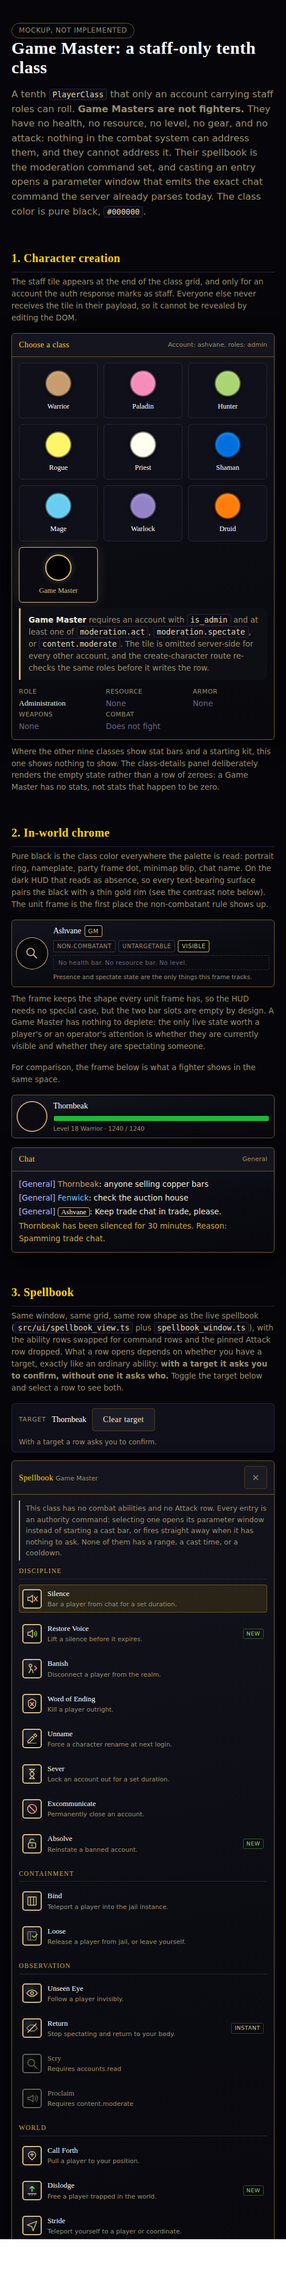
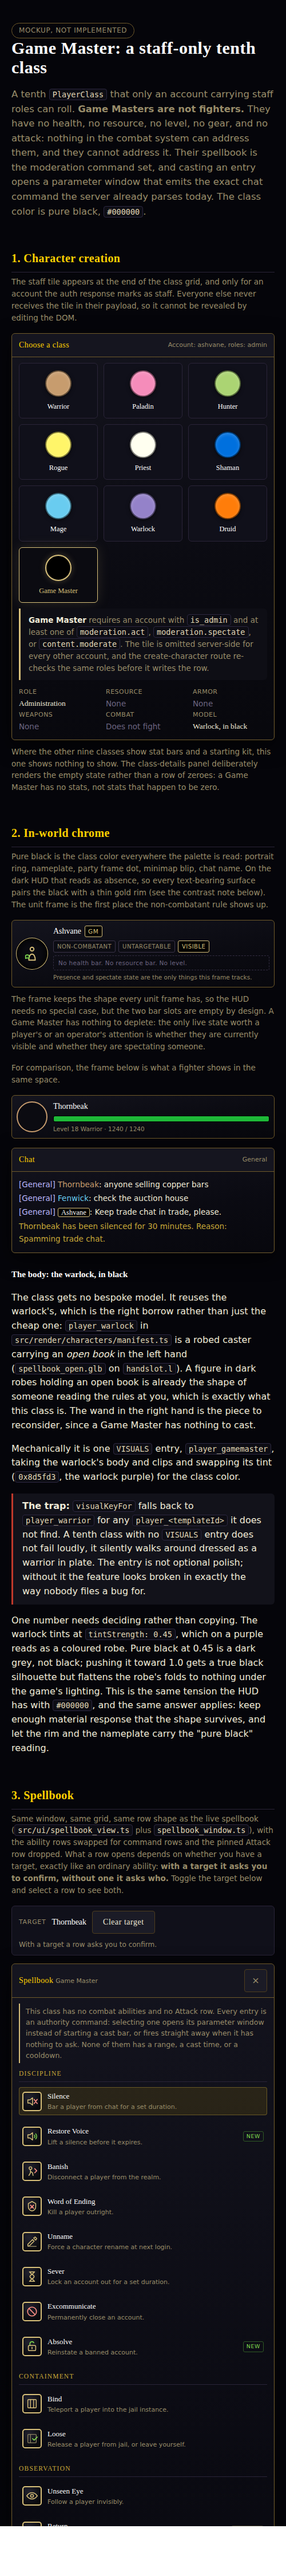
feat(docs): give the Game Master the warlock body, in black
The class gets no bespoke model and reuses the warlock's, which is the
right borrow rather than only the cheap one: player_warlock is a robed
caster carrying an open book in the left hand (spellbook_open.glb on
handslot.l), and a figure in dark robes holding an open book is already
the shape of someone reading the rules at you. Mechanically it is one
VISUALS entry cloning that body with the class color replacing the
warlock purple. Notes the wand in the right hand as the piece to
reconsider, since this class has nothing to cast.

Records the trap that makes the entry mandatory rather than polish:
visualKeyFor falls back to player_warrior for any player_<templateId> it
cannot find, so a tenth class without a VISUALS entry does not fail
loudly, it silently walks around dressed as a warrior in plate.

Also flags the one number that must be decided rather than copied. The
warlock tints at tintStrength 0.45, which reads as a coloured robe on
purple; pure black at 0.45 is dark grey, while pushing toward 1.0 gets a
true black silhouette but flattens the robe under the game's lighting.
Same tension the HUD has with #000000, and the same resolution: keep
enough material response for the shape to survive and let the rim and
nameplate carry the pure-black reading.

Claude-Session: https://claude.ai/code/session_012bGQz4hsnH1YFBGZWnVcjq

Changed region(s): [[0.03, 0.0, 0.96, 1.0]]

diff --git a/docs/design/game-master-class.html b/docs/design/game-master-class.html
@@ -314,6 +314,7 @@
     <g id="gl-revive"><path d="M12 4v16M4 12h16" stroke="#7fdc4f" stroke-width="2" stroke-linecap="round"/><circle cx="12" cy="12" r="8.5" fill="none" stroke="#8a7f5e" stroke-width="1.4"/></g>
     <g id="gl-freeze"><path d="M12 2v20M3.5 7l17 10M20.5 7l-17 10" stroke="#69ccf0" stroke-width="1.6" stroke-linecap="round"/></g>
     <g id="gl-whois"><circle cx="10.5" cy="10.5" r="6.5" fill="none" stroke="#d8c07a" stroke-width="1.7"/><path d="M15.5 15.5L21 21" stroke="#d8c07a" stroke-width="1.8" stroke-linecap="round"/></g>
+    <g id="gl-gm-body"><path d="M12 3a2.6 2.6 0 110 5.2A2.6 2.6 0 0112 3z" fill="none" stroke="#d8c07a" stroke-width="1.5"/><path d="M7.5 21c0-5.2 2-8.4 4.5-8.4s4.5 3.2 4.5 8.4z" fill="none" stroke="#d8c07a" stroke-width="1.5" stroke-linejoin="round"/><path d="M3 14.5c1.6-1 3.2-1 4.8 0v4.2c-1.6-1-3.2-1-4.8 0z" fill="none" stroke="#7fdc4f" stroke-width="1.3" stroke-linejoin="round"/></g>
     <g id="gl-unmute"><path d="M4 9h4l5-4v14l-5-4H4z" fill="none" stroke="#d8c07a" stroke-width="1.6" stroke-linejoin="round"/><path d="M16.5 9.5a4 4 0 010 5M19 7a7.5 7.5 0 010 10" fill="none" stroke="#7fdc4f" stroke-width="1.6" stroke-linecap="round"/></g>
     <g id="gl-unban"><path d="M8 10V7a4 4 0 017.5-2" fill="none" stroke="#7fdc4f" stroke-width="1.7" stroke-linecap="round"/><rect x="5" y="10" width="14" height="10" rx="2" fill="none" stroke="#d8c07a" stroke-width="1.6"/><path d="M12 13.5v3" stroke="#d8c07a" stroke-width="1.7" stroke-linecap="round"/></g>
     <g id="gl-unstuck"><path d="M12 14V4M8 8l4-4 4 4" fill="none" stroke="#7fdc4f" stroke-width="1.8" stroke-linecap="round" stroke-linejoin="round"/><path d="M4 18h16" stroke="#d8c07a" stroke-width="1.7" stroke-linecap="round"/><path d="M6.5 21.5l1.5-2M11.5 21.5l1.5-2M16.5 21.5l1.5-2" stroke="#8a7f5e" stroke-width="1.4" stroke-linecap="round"/></g>
@@ -367,6 +368,7 @@
       <div><dt>Armor</dt><dd class="none">None</dd></div>
       <div><dt>Weapons</dt><dd class="none">None</dd></div>
       <div><dt>Combat</dt><dd class="none">Does not fight</dd></div>
+      <div><dt>Model</dt><dd>Warlock, in black</dd></div>
     </dl>
   </div>
   <p class="cap" style="margin-top:10px">
@@ -385,7 +387,7 @@
   <div class="world-strip">
     <div>
       <div class="unit-frame">
-        <span class="portrait gm"><svg width="26" height="26" aria-hidden="true"><use href="#gl-whois"/></svg></span>
+        <span class="portrait gm"><svg width="30" height="30" viewBox="0 0 24 24" aria-hidden="true"><use href="#gl-gm-body"/></svg></span>
         <span class="unit-meta">
           <span class="unit-name">Ashvane <span class="gm-tag">GM</span></span>
           <span class="state-row">
@@ -425,6 +427,39 @@
       </div>
     </div>
   </div>
+
+  <h3>The body: the warlock, in black</h3>
+  <p>
+    The class gets no bespoke model. It reuses the warlock's, which is the right borrow rather than
+    just the cheap one: <code>player_warlock</code> in
+    <code>src/render/characters/manifest.ts</code> is a robed caster carrying an <em>open book</em> in
+    the left hand (<code>spellbook_open.glb</code> on <code>handslot.l</code>). A figure in dark robes
+    holding an open book is already the shape of someone reading the rules at you, which is exactly
+    what this class is. The wand in the right hand is the piece to reconsider, since a Game Master
+    has nothing to cast.
+  </p>
+  <p>
+    Mechanically it is one <code>VISUALS</code> entry, <code>player_gamemaster</code>, taking the
+    warlock's body and clips and swapping its tint (<code>0x8d5fd3</code>, the warlock purple) for
+    the class color.
+  </p>
+  <div class="callout warn">
+    <p style="margin:0">
+      <strong>The trap:</strong> <code>visualKeyFor</code> falls back to <code>player_warrior</code>
+      for any <code>player_&lt;templateId&gt;</code> it does not find. A tenth class with no
+      <code>VISUALS</code> entry does not fail loudly, it silently walks around dressed as a warrior
+      in plate. The entry is not optional polish; without it the feature looks broken in exactly the
+      way nobody files a bug for.
+    </p>
+  </div>
+  <p>
+    One number needs deciding rather than copying. The warlock tints at
+    <code>tintStrength: 0.45</code>, which on a purple reads as a coloured robe. Pure black at 0.45
+    is a dark grey, not black; pushing it toward 1.0 gets a true black silhouette but flattens the
+    robe's folds to nothing under the game's lighting. This is the same tension the HUD has with
+    <code>#000000</code>, and the same answer applies: keep enough material response that the shape
+    survives, and let the rim and the nameplate carry the "pure black" reading.
+  </p>
 
   <h2>3. Spellbook</h2>
   <p class="cap">
@@ -636,6 +671,10 @@
       checks before it reads them; filling them with zeroes and a bare fist is the outcome to
       avoid, because it teaches the rest of the code that a Game Master is a very weak fighter
       rather than not a fighter.</li>
+    <li><code>src/render/characters/manifest.ts</code>: a <code>player_gamemaster</code>
+      <code>VISUALS</code> entry cloning the warlock body with the class color as its tint. Mandatory,
+      not polish: <code>visualKeyFor</code> falls back to <code>player_warrior</code> for an unknown
+      key, so omitting it renders the GM as a warrior with no error anywhere.</li>
     <li><code>src/sim/</code>: one <code>isCombatant</code> predicate the damage, threat, targeting,
       loot, and queue paths each consult, so the non-combatant table above has a single
       implementation instead of seven. This is the part worth getting right, and it belongs behind
